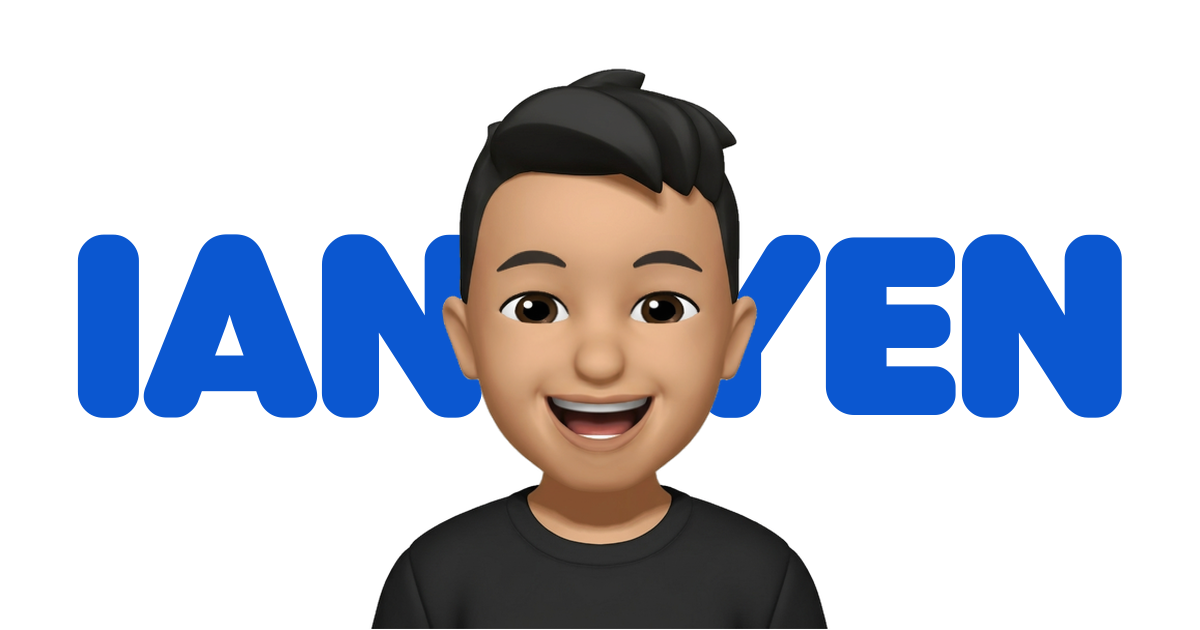
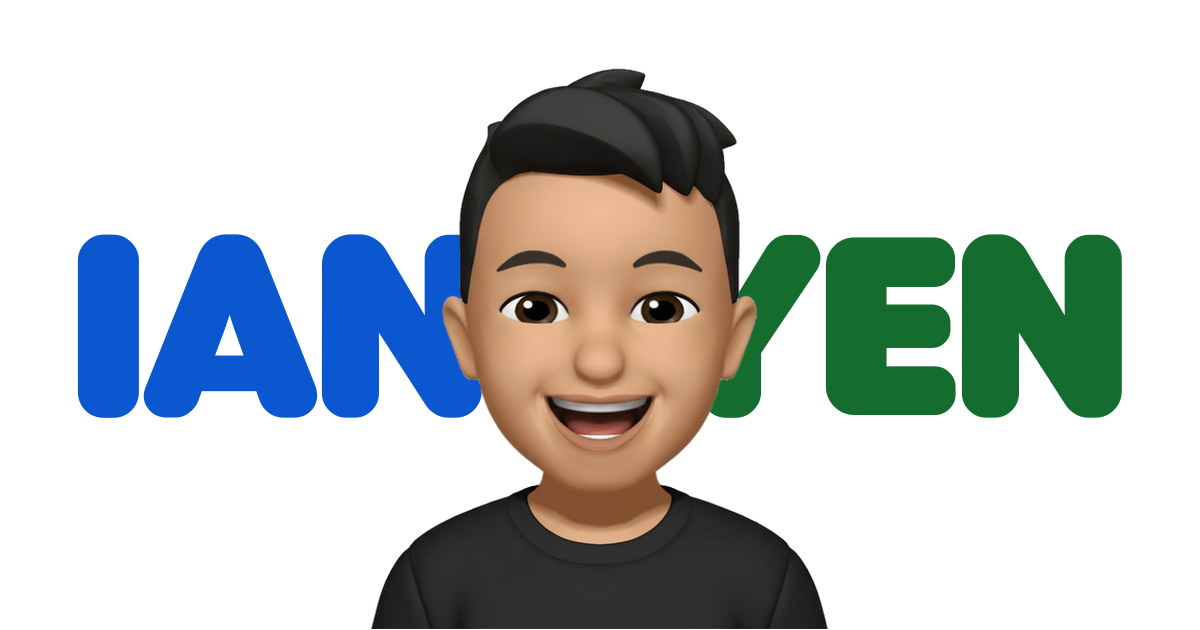
Use light-theme hero green (#146C2E) for 'YEN' in LinkedIn/Open Graph preview image (?v=214)

Changed region(s): [[0.5858, 0.3619, 0.9558, 0.6635]]

diff --git a/index.html b/index.html
@@ -9,8 +9,8 @@
   <meta property="og:description" content="Ian Yen | Senior Product Designer at Google NYC. Designing AI products people trust across Agentic Messaging, People Platform & Ecosystem Growth.">
   <meta property="og:type" content="website">
   <meta property="og:url" content="https://ianyen.net">
-  <meta property="og:image" content="https://ianyen.net/assets/og-preview.png?v=207">
-  <meta property="og:image:secure_url" content="https://ianyen.net/assets/og-preview.png?v=207">
+  <meta property="og:image" content="https://ianyen.net/assets/og-preview.png?v=214">
+  <meta property="og:image:secure_url" content="https://ianyen.net/assets/og-preview.png?v=214">
   <meta property="og:image:type" content="image/png">
   <meta property="og:image:width" content="1200">
   <meta property="og:image:height" content="630">
@@ -18,7 +18,7 @@
   <meta name="twitter:card" content="summary_large_image">
   <meta name="twitter:title" content="Ian Yen | Senior Product Designer">
   <meta name="twitter:description" content="Ian Yen | Senior Product Designer at Google NYC. Designing AI products people trust across Agentic Messaging, People Platform & Ecosystem Growth.">
-  <meta name="twitter:image" content="https://ianyen.net/assets/og-preview.png?v=207">
+  <meta name="twitter:image" content="https://ianyen.net/assets/og-preview.png?v=214">
   <meta name="thumbnail" content="https://ianyen.net/favicon-512.png?v=192">
   <link rel="icon" href="favicon.png?v=192" type="image/png" sizes="64x64">
   <link rel="icon" href="favicon-192.png?v=192" type="image/png" sizes="192x192">

diff --git a/sharing-design-system.html b/sharing-design-system.html
@@ -9,11 +9,11 @@
   <meta property="og:description" content="ShareKit: A Sharing Design System Built for Growth — Case Study by Ian Yen">
   <meta property="og:type" content="website">
   <meta property="og:url" content="https://ianyen.net/sharing-design-system.html">
-  <meta property="og:image" content="https://ianyen.net/assets/og-preview.png?v=207">
+  <meta property="og:image" content="https://ianyen.net/assets/og-preview.png?v=214">
   <meta property="og:image:width" content="1200">
   <meta property="og:image:height" content="630">
   <meta name="twitter:card" content="summary_large_image">
-  <meta name="twitter:image" content="https://ianyen.net/assets/og-preview.png?v=207">
+  <meta name="twitter:image" content="https://ianyen.net/assets/og-preview.png?v=214">
   <meta name="thumbnail" content="https://ianyen.net/favicon-512.png?v=192">
   <link rel="icon" href="favicon.png?v=192" type="image/png" sizes="64x64">
   <link rel="icon" href="favicon-192.png?v=192" type="image/png" sizes="192x192">

diff --git a/ai-in-contacts.html b/ai-in-contacts.html
@@ -9,11 +9,11 @@
   <meta property="og:description" content="Google Contacts: AI-Powered Contact Intelligence — Case Study by Ian Yen">
   <meta property="og:type" content="website">
   <meta property="og:url" content="https://ianyen.net/ai-in-contacts.html">
-  <meta property="og:image" content="https://ianyen.net/assets/og-preview.png?v=207">
+  <meta property="og:image" content="https://ianyen.net/assets/og-preview.png?v=214">
   <meta property="og:image:width" content="1200">
   <meta property="og:image:height" content="630">
   <meta name="twitter:card" content="summary_large_image">
-  <meta name="twitter:image" content="https://ianyen.net/assets/og-preview.png?v=207">
+  <meta name="twitter:image" content="https://ianyen.net/assets/og-preview.png?v=214">
   <meta name="thumbnail" content="https://ianyen.net/favicon-512.png?v=192">
   <link rel="icon" href="favicon.png?v=192" type="image/png" sizes="64x64">
   <link rel="icon" href="favicon-192.png?v=192" type="image/png" sizes="192x192">

diff --git a/google-contacts.html b/google-contacts.html
@@ -9,11 +9,11 @@
   <meta property="og:description" content="Redesigning Contacts Editor At Scale — Case Study by Ian Yen">
   <meta property="og:type" content="website">
   <meta property="og:url" content="https://ianyen.net/google-contacts.html">
-  <meta property="og:image" content="https://ianyen.net/assets/og-preview.png?v=207">
+  <meta property="og:image" content="https://ianyen.net/assets/og-preview.png?v=214">
   <meta property="og:image:width" content="1200">
   <meta property="og:image:height" content="630">
   <meta name="twitter:card" content="summary_large_image">
-  <meta name="twitter:image" content="https://ianyen.net/assets/og-preview.png?v=207">
+  <meta name="twitter:image" content="https://ianyen.net/assets/og-preview.png?v=214">
   <meta name="thumbnail" content="https://ianyen.net/favicon-512.png?v=192">
   <link rel="icon" href="favicon.png?v=192" type="image/png" sizes="64x64">
   <link rel="icon" href="favicon-192.png?v=192" type="image/png" sizes="192x192">

diff --git a/sonicare.html b/sonicare.html
@@ -9,11 +9,11 @@
   <meta property="og:description" content="Philips Sonicare Connected App Relaunch — Case Study by Ian Yen">
   <meta property="og:type" content="website">
   <meta property="og:url" content="https://ianyen.net/sonicare.html">
-  <meta property="og:image" content="https://ianyen.net/assets/og-preview.png?v=207">
+  <meta property="og:image" content="https://ianyen.net/assets/og-preview.png?v=214">
   <meta property="og:image:width" content="1200">
   <meta property="og:image:height" content="630">
   <meta name="twitter:card" content="summary_large_image">
-  <meta name="twitter:image" content="https://ianyen.net/assets/og-preview.png?v=207">
+  <meta name="twitter:image" content="https://ianyen.net/assets/og-preview.png?v=214">
   <meta name="thumbnail" content="https://ianyen.net/favicon-512.png?v=192">
   <link rel="icon" href="favicon.png?v=192" type="image/png" sizes="64x64">
   <link rel="icon" href="favicon-192.png?v=192" type="image/png" sizes="192x192">
